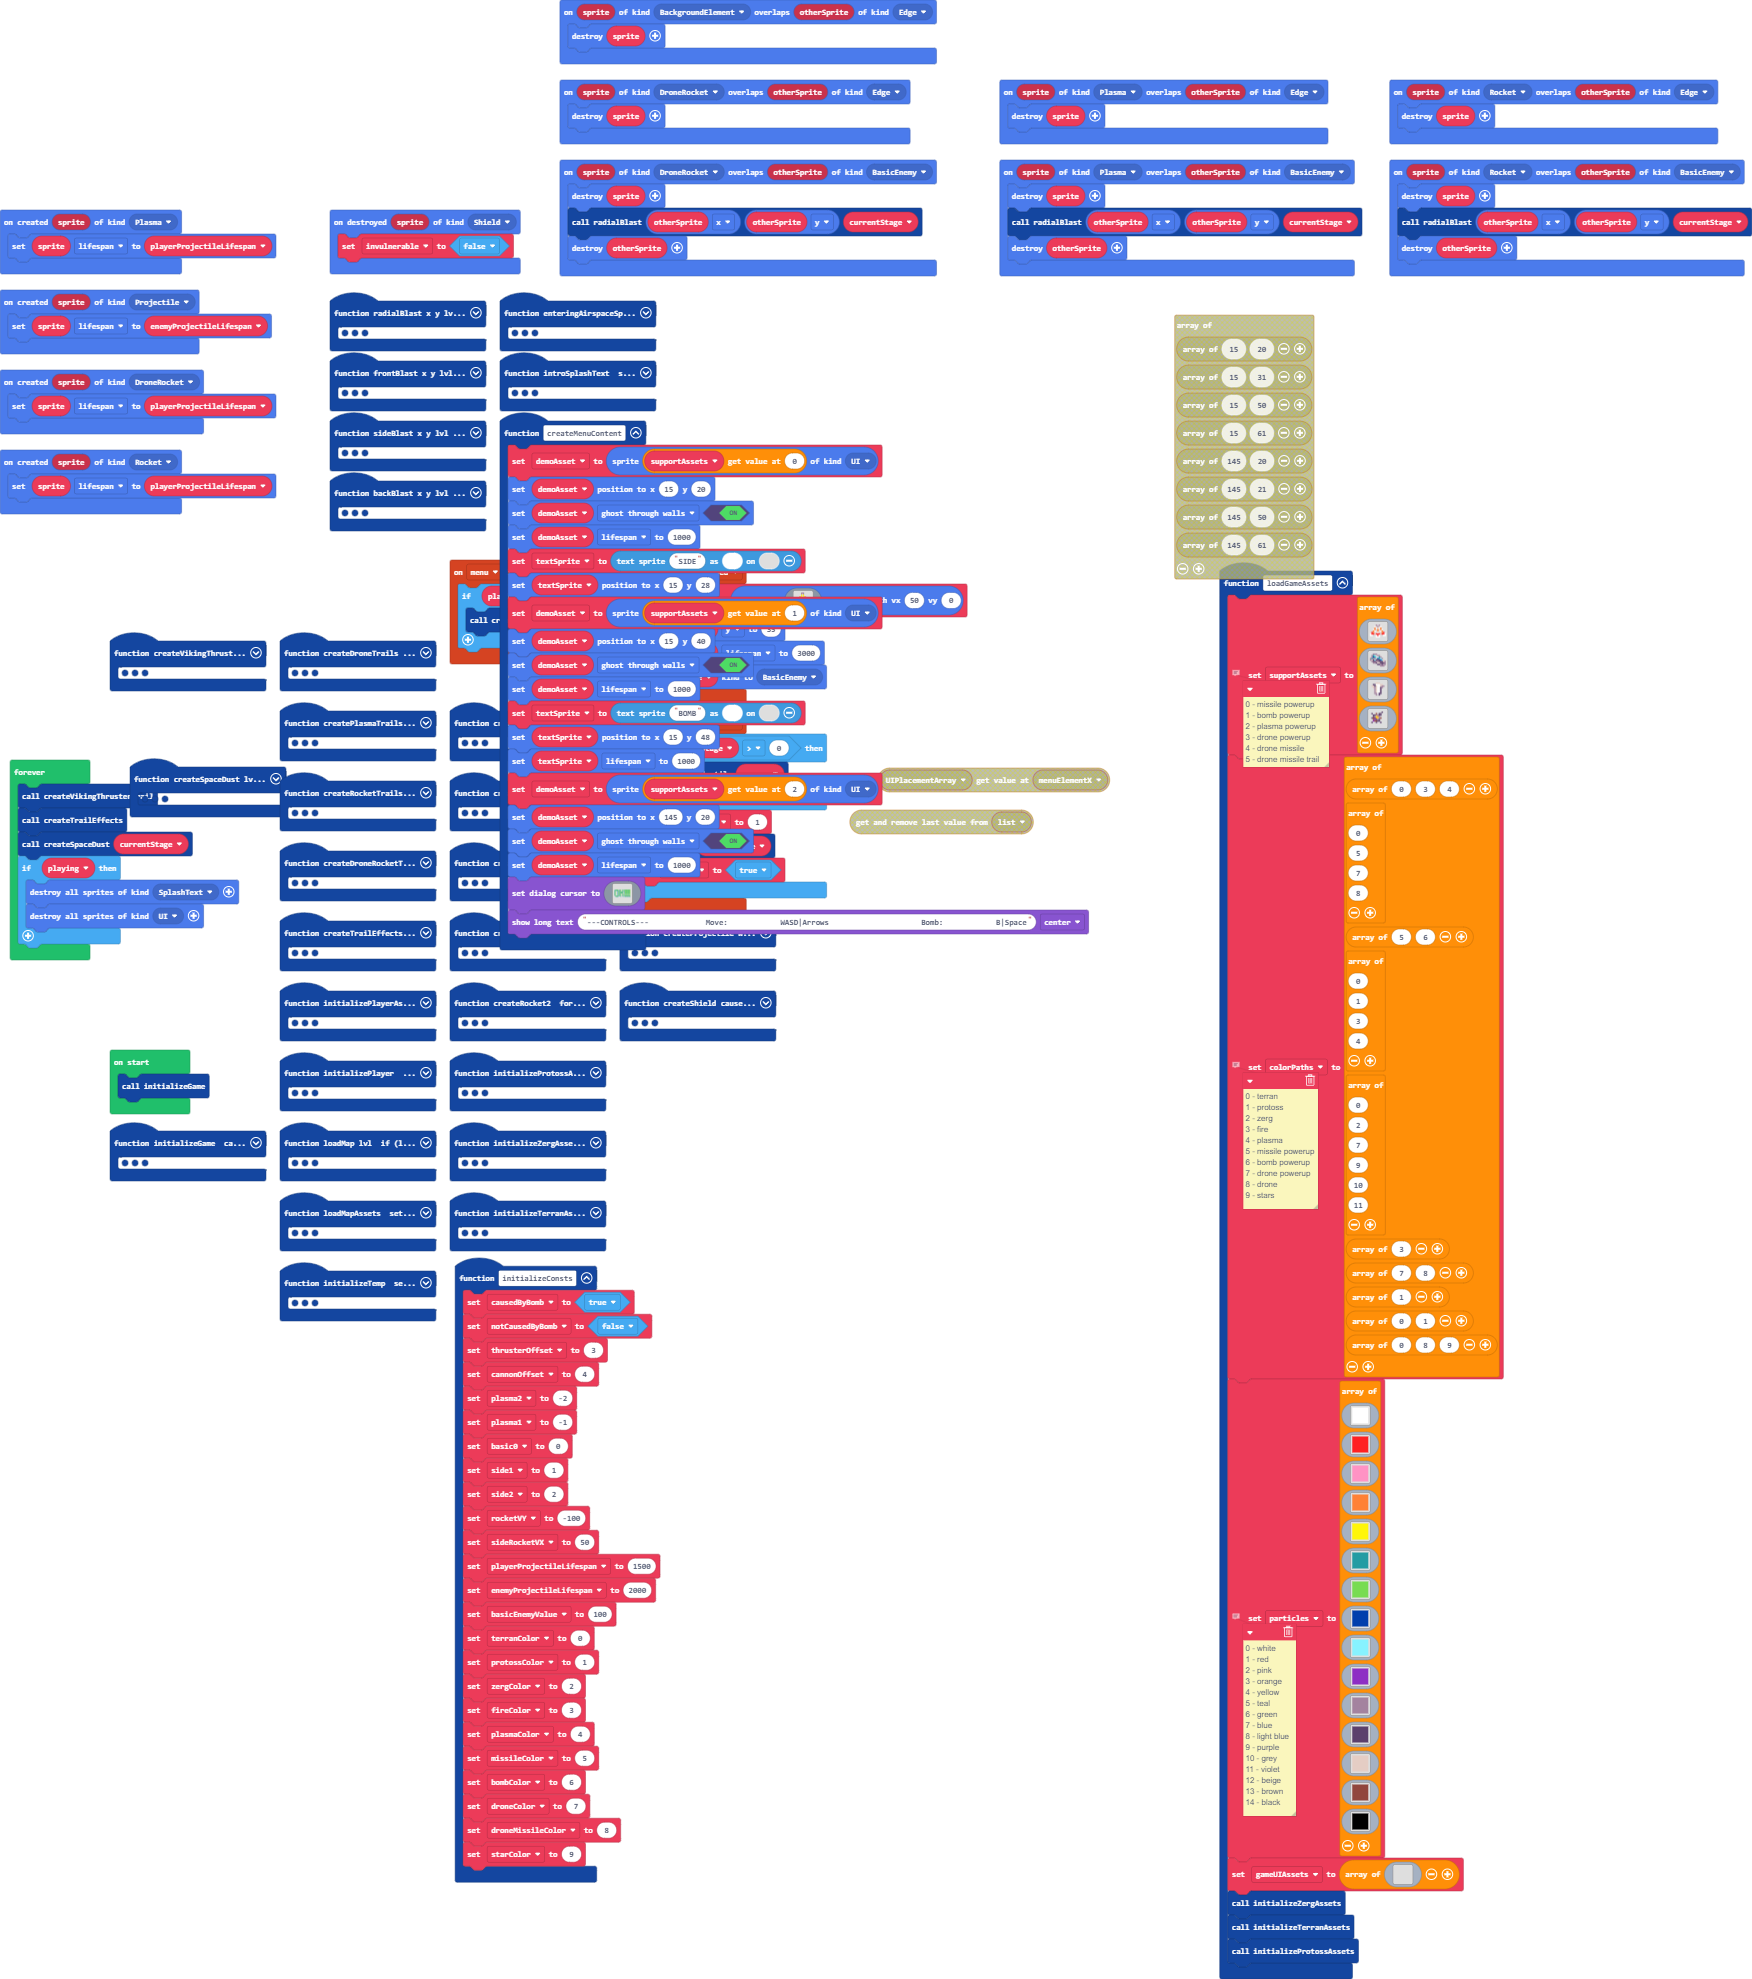
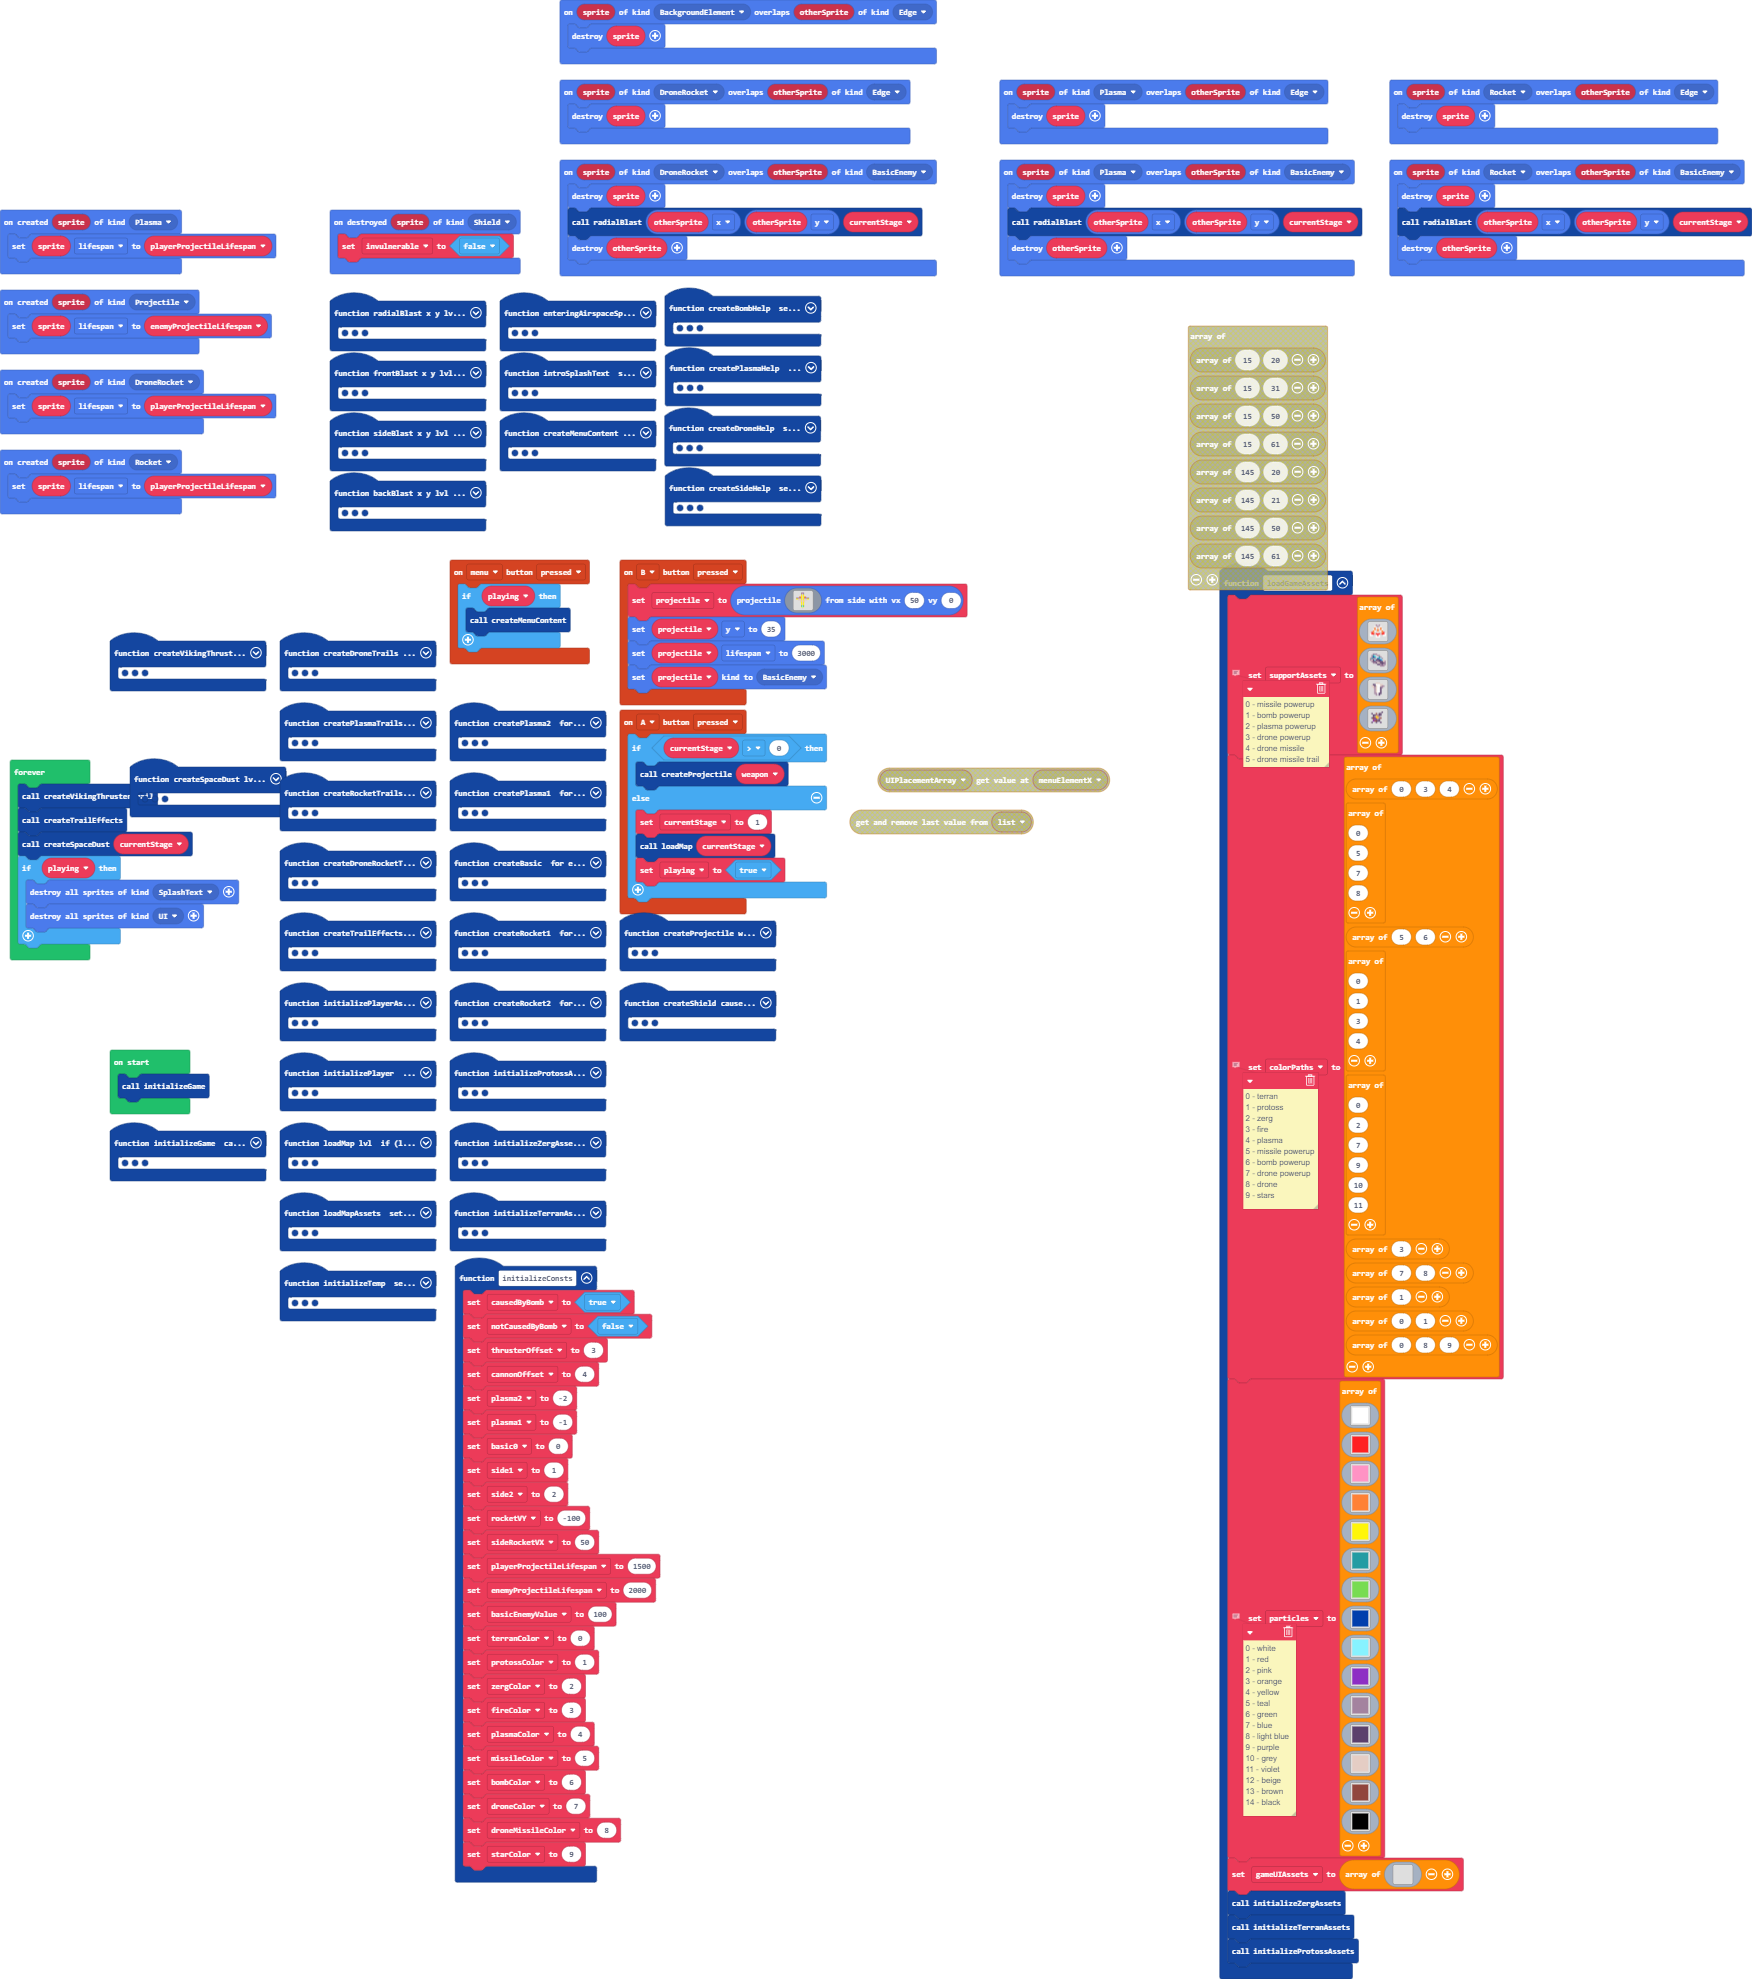
compartmentalized menu helpers

Changed region(s): [[0.2774, 0.1233, 0.524, 0.4932], [0.6473, 0.1541, 0.7705, 0.3082], [0.524, 0.4624, 0.6164, 0.4932]]

diff --git a/main.ts b/main.ts
@@ -12,6 +12,15 @@ namespace SpriteKind {
     export const BackgroundElement = SpriteKind.create()
     export const Edge = SpriteKind.create()
 }
+function createPlasmaHelp () {
+    demoAsset = sprites.create(supportAssets[2], SpriteKind.UI)
+    demoAsset.setPosition(145, 20)
+    demoAsset.setFlag(SpriteFlag.GhostThroughWalls, true)
+    demoAsset.lifespan = 1000
+    textSprite = textsprite.create("PLASMA", 0, 1)
+    textSprite.setPosition(145, 28)
+    textSprite.lifespan = 1000
+}
 sprites.onOverlap(SpriteKind.BackgroundElement, SpriteKind.Edge, function (sprite, otherSprite) {
     sprites.destroy(sprite)
 })
@@ -522,6 +531,15 @@ sprites.onOverlap(SpriteKind.Plasma, SpriteKind.Edge, function (sprite, otherSpr
 sprites.onDestroyed(SpriteKind.Shield, function (sprite) {
     invulnerable = false
 })
+function createSideHelp () {
+    demoAsset = sprites.create(supportAssets[0], SpriteKind.UI)
+    demoAsset.setPosition(15, 20)
+    demoAsset.setFlag(SpriteFlag.GhostThroughWalls, true)
+    demoAsset.lifespan = 1000
+    textSprite = textsprite.create("SIDE", 0, 1)
+    textSprite.setPosition(15, 28)
+    textSprite.lifespan = 1000
+}
 function backBlast (x: number, y: number, lvl: number) {
     if (lvl == 1) {
         effectColorSelector = 1
@@ -546,23 +564,10 @@ function backBlast (x: number, y: number, lvl: number) {
     })
 }
 function createMenuContent () {
-    demoAsset = sprites.create(supportAssets[0], SpriteKind.UI)
-    demoAsset.setPosition(15, 20)
-    demoAsset.setFlag(SpriteFlag.GhostThroughWalls, true)
-    demoAsset.lifespan = 1000
-    textSprite = textsprite.create("SIDE", 0, 1)
-    textSprite.setPosition(15, 28)
-    demoAsset = sprites.create(supportAssets[1], SpriteKind.UI)
-    demoAsset.setPosition(15, 40)
-    demoAsset.setFlag(SpriteFlag.GhostThroughWalls, true)
-    demoAsset.lifespan = 1000
-    textSprite = textsprite.create("BOMB", 0, 1)
-    textSprite.setPosition(15, 48)
-    textSprite.lifespan = 1000
-    demoAsset = sprites.create(supportAssets[2], SpriteKind.UI)
-    demoAsset.setPosition(145, 20)
-    demoAsset.setFlag(SpriteFlag.GhostThroughWalls, true)
-    demoAsset.lifespan = 1000
+    createSideHelp()
+    createBombHelp()
+    createPlasmaHelp()
+    createDroneHelp()
     game.setDialogCursor(img`
         . 6 7 7 7 7 . . 6 7 . . 6 7 . 6 7 7 6 7 7 6 7 7 
         6 7 6 6 6 6 7 . 6 7 . . 6 7 . 6 7 7 6 7 7 6 7 7 
@@ -1975,6 +1980,15 @@ function initializeProtossAssets () {
 sprites.onCreated(SpriteKind.Projectile, function (sprite) {
     sprite.lifespan = enemyProjectileLifespan
 })
+function createBombHelp () {
+    demoAsset = sprites.create(supportAssets[1], SpriteKind.UI)
+    demoAsset.setPosition(15, 40)
+    demoAsset.setFlag(SpriteFlag.GhostThroughWalls, true)
+    demoAsset.lifespan = 1000
+    textSprite = textsprite.create("BOMB", 0, 1)
+    textSprite.setPosition(15, 48)
+    textSprite.lifespan = 1000
+}
 function createSpaceDust (lvl: number) {
     if (currentStage > 0) {
         if (Math.percentChance(1)) {
@@ -2002,6 +2016,15 @@ function createSpaceDust (lvl: number) {
             stardustSprite.lifespan = 25000
         }
     }
+}
+function createDroneHelp () {
+    demoAsset = sprites.create(supportAssets[3], SpriteKind.UI)
+    demoAsset.setPosition(145, 40)
+    demoAsset.setFlag(SpriteFlag.GhostThroughWalls, true)
+    demoAsset.lifespan = 1000
+    textSprite = textsprite.create("DRONE", 0, 1)
+    textSprite.setPosition(145, 48)
+    textSprite.lifespan = 1000
 }
 function loadGameAssets () {
     // 0 - missile powerup
@@ -2238,9 +2261,6 @@ let basicEnemyValue = 0
 let enemyProjectileLifespan = 0
 let thrusterOffset = 0
 let causedByBomb = false
-let textSprite: TextSprite = null
-let supportAssets: Image[] = []
-let demoAsset: Sprite = null
 let invulnerable = false
 let weapon = 0
 let currentStage = 0
@@ -2281,6 +2301,9 @@ let introText2: TextSprite = null
 let introText1: TextSprite = null
 let playing = false
 let textDelay = 0
+let textSprite: TextSprite = null
+let supportAssets: Image[] = []
+let demoAsset: Sprite = null
 initializeGame()
 forever(function () {
     createVikingThrusterTrail()
